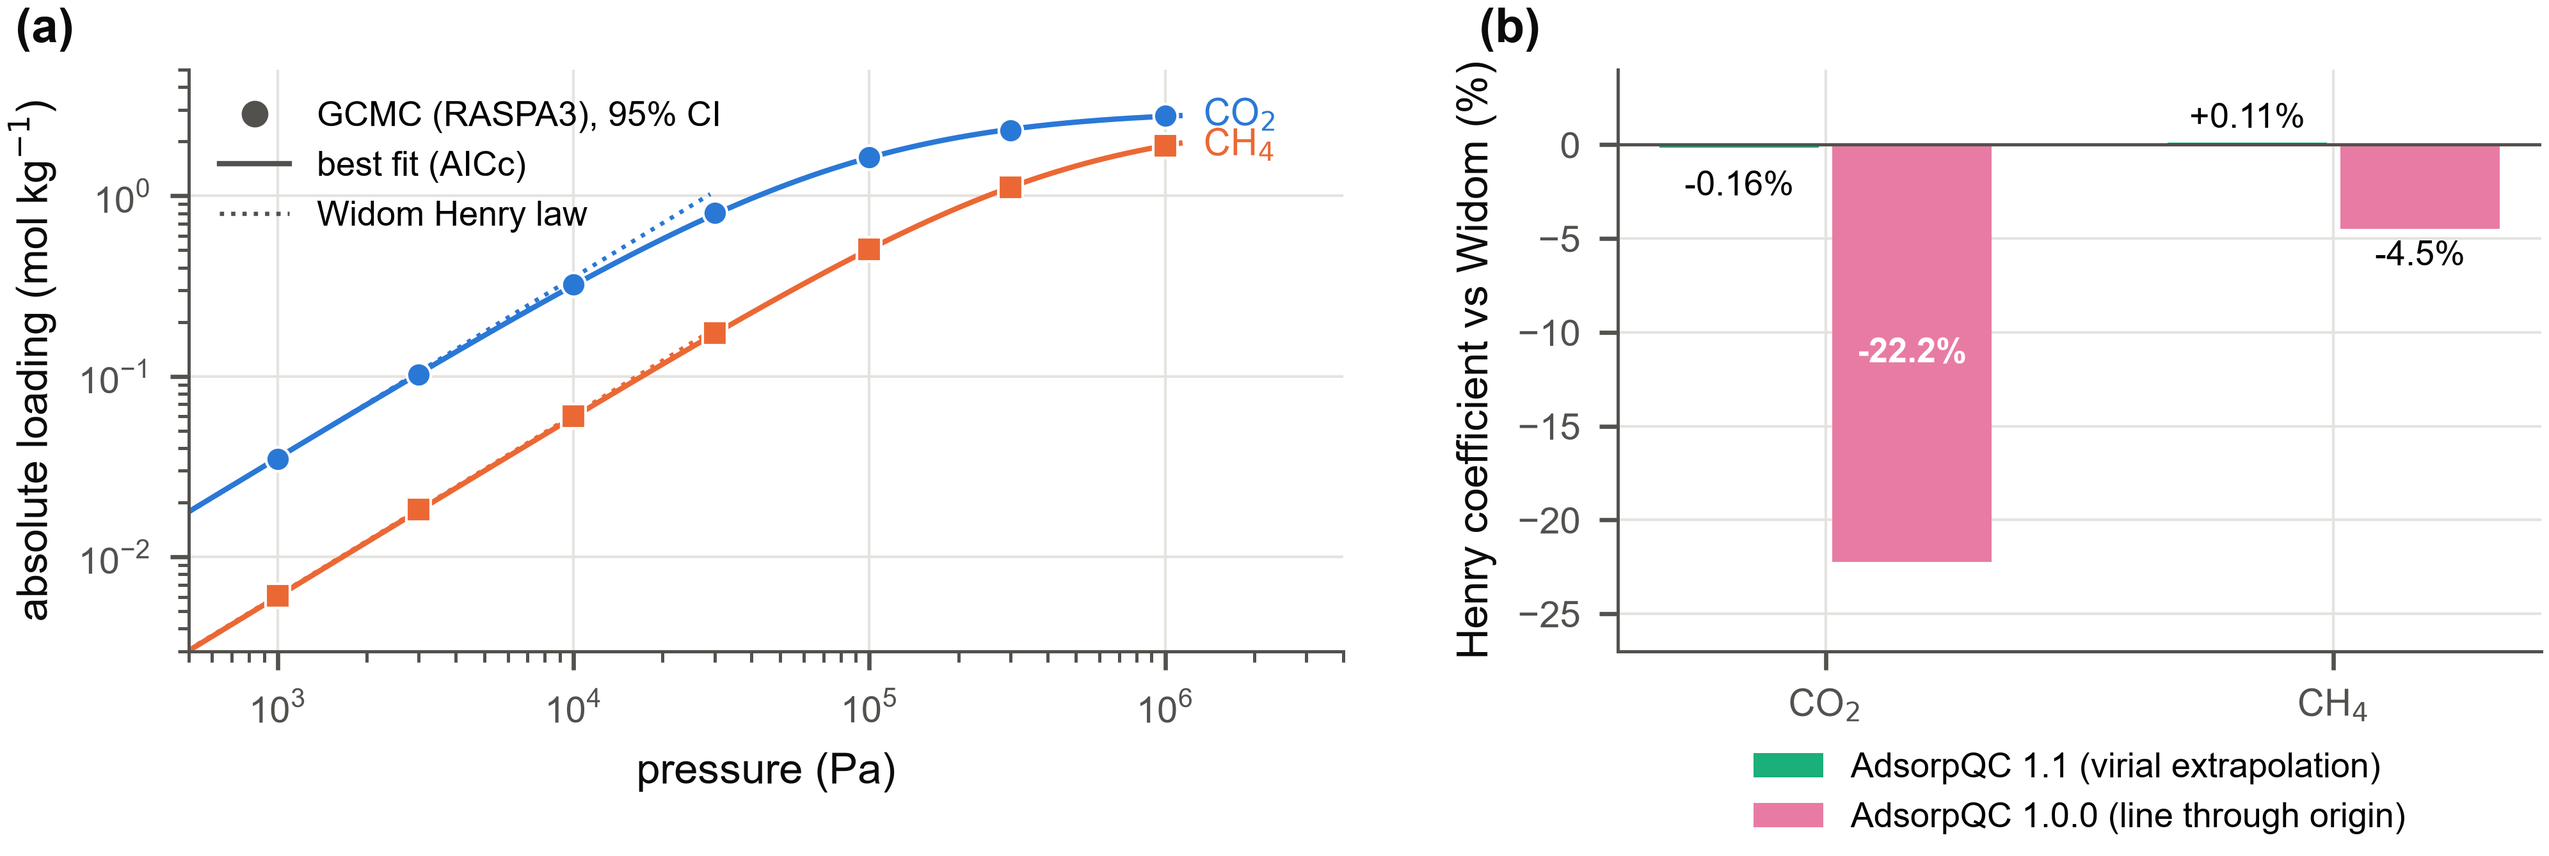
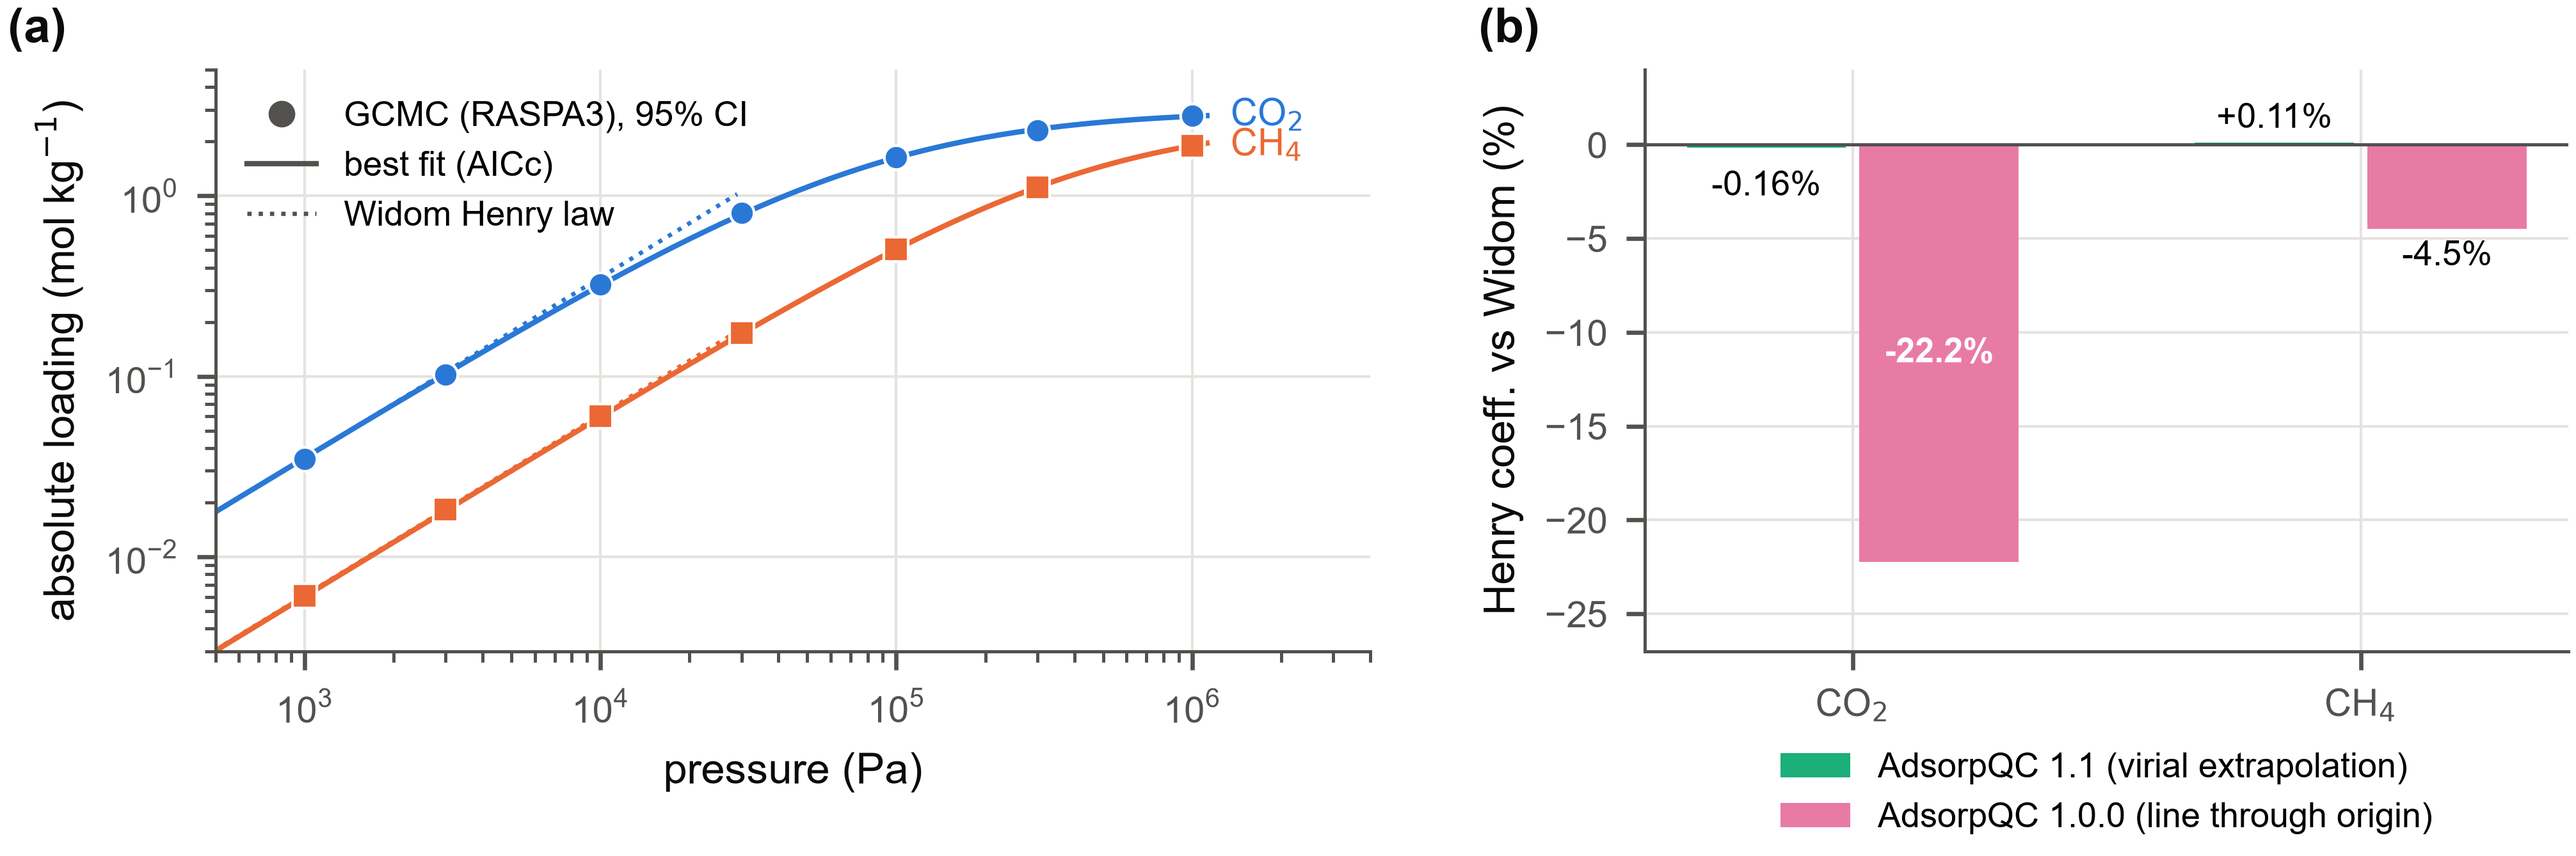
validation figures: avoid overlapping axis labels and panel letters
Shorter y-axis labels for the Henry-coefficient and model-selection panels, panel letters moved; figures regenerated with validation/make_figures.py (same data).

diff --git a/validation/make_figures.py b/validation/make_figures.py
@@ -52,7 +52,7 @@ def setup():
 
 
 def panel(ax, letter):
-    ax.text(-0.15, 1.03, f"({letter})", transform=ax.transAxes, fontsize=9, fontweight="bold", va="bottom", color=INK)
+    ax.text(-0.18, 1.03, f"({letter})", transform=ax.transAxes, fontsize=9, fontweight="bold", va="bottom", color=INK)
 
 
 def save(fig, name):
@@ -112,7 +112,7 @@ def fig_pure(iso):
             b.text(xi, v - 0.6, f"{v:+.1f}%", ha="center", va="top", fontsize=6.5)
     b.axhline(0, color=INK2, lw=0.6)
     b.set_xticks(x, [r"CO$_2$" if g == "CO2" else r"CH$_4$" for g in h.gas])
-    b.set(ylabel="Henry coefficient vs Widom (%)", ylim=(-27, 4))
+    b.set(ylabel="Henry coeff. vs Widom (%)", ylim=(-27, 4))
     b.legend(loc="upper center", bbox_to_anchor=(0.5, -0.12), ncol=1)
     panel(b, "b")
     fig.tight_layout(w_pad=2.5)
@@ -187,7 +187,7 @@ def fig_known():
     b.bar(x - 0.18, vals["AIC"], 0.34, color=C["gray"], label="AIC")
     b.bar(x + 0.18, vals["AICc"], 0.34, color=C["CO2"][0], label="AICc")
     b.set_xticks(x, lab)
-    b.set(ylabel="true model selected (fraction)", ylim=(0, 1.05))
+    b.set(ylabel="fraction correct", ylim=(0, 1.05))
     b.legend(loc="upper center", bbox_to_anchor=(0.5, -0.24), ncol=2)
     panel(b, "b")
     fig.tight_layout(w_pad=2.5)
